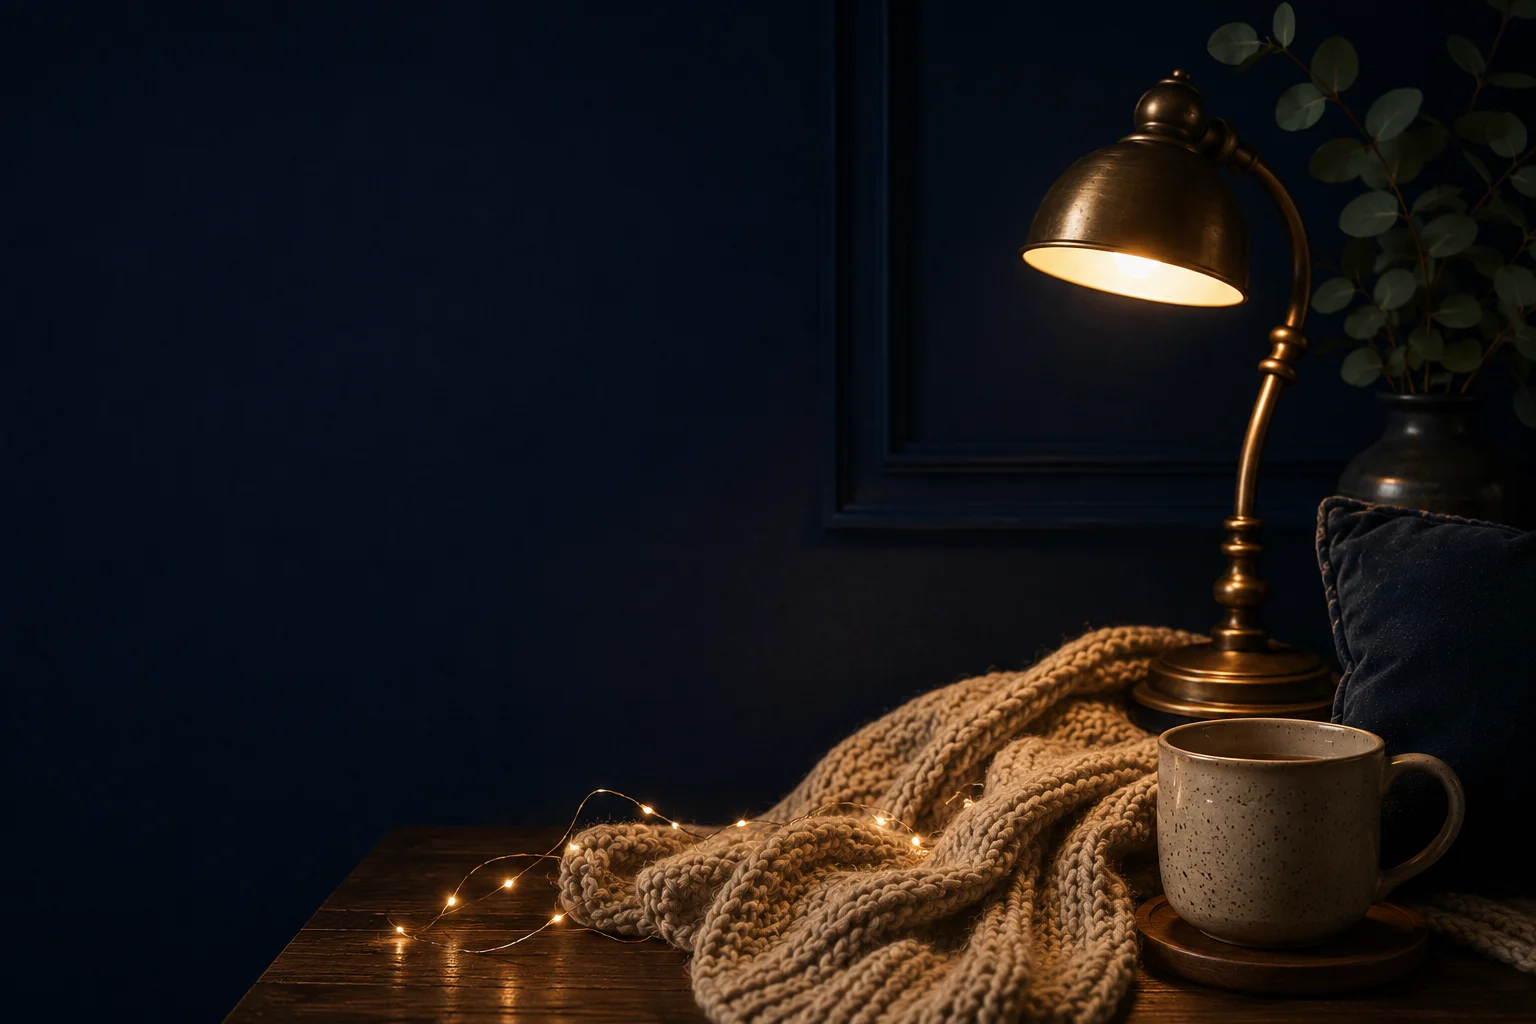
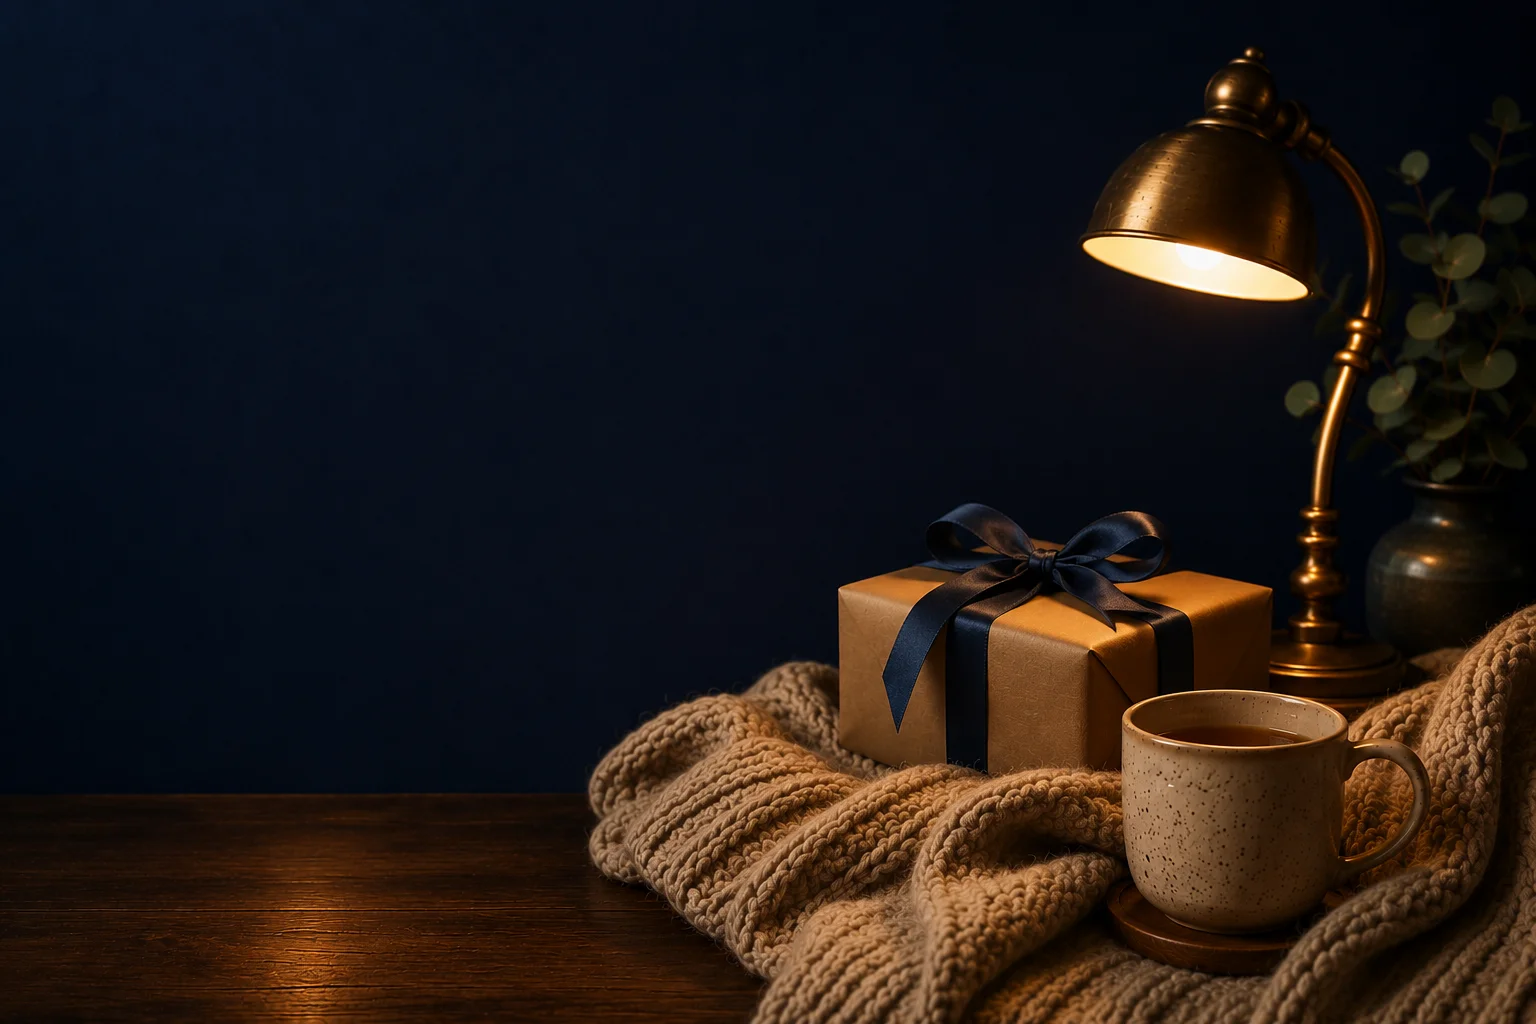
Reorder cards, add hero spacing/disclosure link, swap hero image
- Card order: British TV Hub Marketplace, The Snug, Etsy Printables (last)
- Added ~56px more spacing between hero and cards
- Replaced top disclosure banner with an in-hero 'Affiliate Disclosure' link that jumps to the footer disclosure
- Swapped hero image to the wrapped gift box / tea / blanket photo

Changed region(s): [[0.0, 0.0, 1.0, 1.0], [0.9688, 0.1875, 1.0, 0.2188], [0.9688, 0.125, 1.0, 0.1562]]

diff --git a/gift-ideas.html b/gift-ideas.html
@@ -416,24 +416,18 @@ document.addEventListener('click', function(e){
 
 
   <div class="page-hero" style="min-height:340px;">
-    <img src="/gift-ideas-hero.webp" alt="Cozy lamp, blanket, and mug on a table" style="position:absolute;right:0;top:0;width:50%;height:100%;object-fit:cover;object-position:center;filter:brightness(1.1);">
+    <img src="/gift-ideas-hero.webp" alt="Wrapped gift box with tea and cozy blanket" style="position:absolute;right:0;top:0;width:50%;height:100%;object-fit:cover;object-position:center;filter:brightness(1.1);">
     <div style="position:absolute;inset:0;background:linear-gradient(to right,var(--navy-deep) 42%,rgba(16,28,51,0.75) 62%,rgba(16,28,51,0.05) 100%);"></div>
     <div style="position:relative;z-index:2;padding:64px 40px 48px;max-width:680px;">
       <div class="page-hero-eyebrow">British TV Hub Favourites</div>
       <h1>Shop <em>British TV Favorites</em></h1>
       <p class="page-hero-lead">Browse carefully curated collections of books, cozy viewing essentials, printable planners, and handpicked recommendations from British TV Hub &mdash; whether it's a gift for a fellow fan or a treat for yourself.</p>
+      <p style="font-family:'Raleway',sans-serif; font-size:11px; letter-spacing:.08em; text-transform:uppercase; margin-top:18px;"><a href="#affiliate-disclosure" style="color:var(--cream-dim); text-decoration:underline;">Affiliate Disclosure</a></p>
     </div>
   </div>
 
-  <div class="section" id="gift-ideas" style="padding-top:56px;">
+  <div class="section" id="gift-ideas" style="padding-top:112px;">
     <div class="grid" style="gap:28px;">
-
-      <div class="card" style="padding:0 0 28px; text-align:center; gap:16px; overflow:hidden;">
-        <img src="/etsy-card.webp" alt="Etsy Printables Shop" style="width:100%; height:160px; object-fit:cover; display:block;">
-        <h3 style="font-size:24px; padding:0 28px; margin-top:4px;">Etsy Printables</h3>
-        <p style="padding:0 28px;">Cozy TV journals, mystery trackers, bingo cards, and printable planners &mdash; made for tracking every clue and cozy night in.</p>
-        <a class="card-link" style="margin:0 28px; padding:13px 16px; width:auto;" href="https://cozytvcompanion.etsy.com" target="_blank" rel="sponsored nofollow noopener">Visit the Etsy Shop &rarr;</a>
-      </div>
 
       <div class="card" style="padding:0 0 28px; text-align:center; gap:16px; overflow:hidden;">
         <img src="/marketplace-card.webp" alt="British TV Hub Marketplace" style="width:100%; height:160px; object-fit:cover; display:block;">
@@ -447,6 +441,13 @@ document.addEventListener('click', function(e){
         <h3 style="font-size:24px; padding:0 28px; margin-top:4px;">The Snug</h3>
         <p style="padding:0 28px;">Looking for inspiration before you shop? Explore favourite cozy viewing ideas, recipes, books, and British comforts.</p>
         <a class="card-link" style="margin:0 28px; padding:13px 16px; width:auto;" href="/essentials.html">Visit The Snug &rarr;</a>
+      </div>
+
+      <div class="card" style="padding:0 0 28px; text-align:center; gap:16px; overflow:hidden;">
+        <img src="/etsy-card.webp" alt="Etsy Printables Shop" style="width:100%; height:160px; object-fit:cover; display:block;">
+        <h3 style="font-size:24px; padding:0 28px; margin-top:4px;">Etsy Printables</h3>
+        <p style="padding:0 28px;">Cozy TV journals, mystery trackers, bingo cards, and printable planners &mdash; made for tracking every clue and cozy night in.</p>
+        <a class="card-link" style="margin:0 28px; padding:13px 16px; width:auto;" href="https://cozytvcompanion.etsy.com" target="_blank" rel="sponsored nofollow noopener">Visit the Etsy Shop &rarr;</a>
       </div>
 
     </div>
@@ -621,7 +622,7 @@ document.addEventListener('click', function(e){
     <div style="font-family:'Raleway',sans-serif;font-size:10px;letter-spacing:3px;text-transform:uppercase;color:#c9a96e;margin-bottom:10px;">Discover &nbsp;&bull;&nbsp; Watch &nbsp;&bull;&nbsp; Read &nbsp;&bull;&nbsp; Explore</div>
     <p style="font-family:'Crimson Text',serif;font-size:15px;font-style:italic;color:#9090a8;margin:0 0 14px;">See you back for the next recommendation.</p>
     <div style="font-family:'Raleway',sans-serif;font-size:9px;color:#88898b;letter-spacing:1px;margin-bottom:10px;">&copy; <span class="js-year">2026</span> British TV Hub &nbsp;&middot;&nbsp; <a href="/privacy.html" style="color:#88898b;text-decoration:underline;">Privacy</a></div>
-    <p style="font-family:'Raleway',sans-serif;font-size:9px;color:#88898b;margin:0;letter-spacing:0.5px;">British TV Hub is a participant in the Amazon Associates program and earns from qualifying purchases. British TV Hub may also earn commissions from BritBox and Acorn TV affiliate links at no extra cost to you.</p>
+    <p id="affiliate-disclosure" style="font-family:'Raleway',sans-serif;font-size:9px;color:#88898b;margin:0;letter-spacing:0.5px;">British TV Hub is a participant in the Amazon Associates program and earns from qualifying purchases. British TV Hub may also earn commissions from BritBox and Acorn TV affiliate links at no extra cost to you.</p>
   </div>
 </footer>
 
